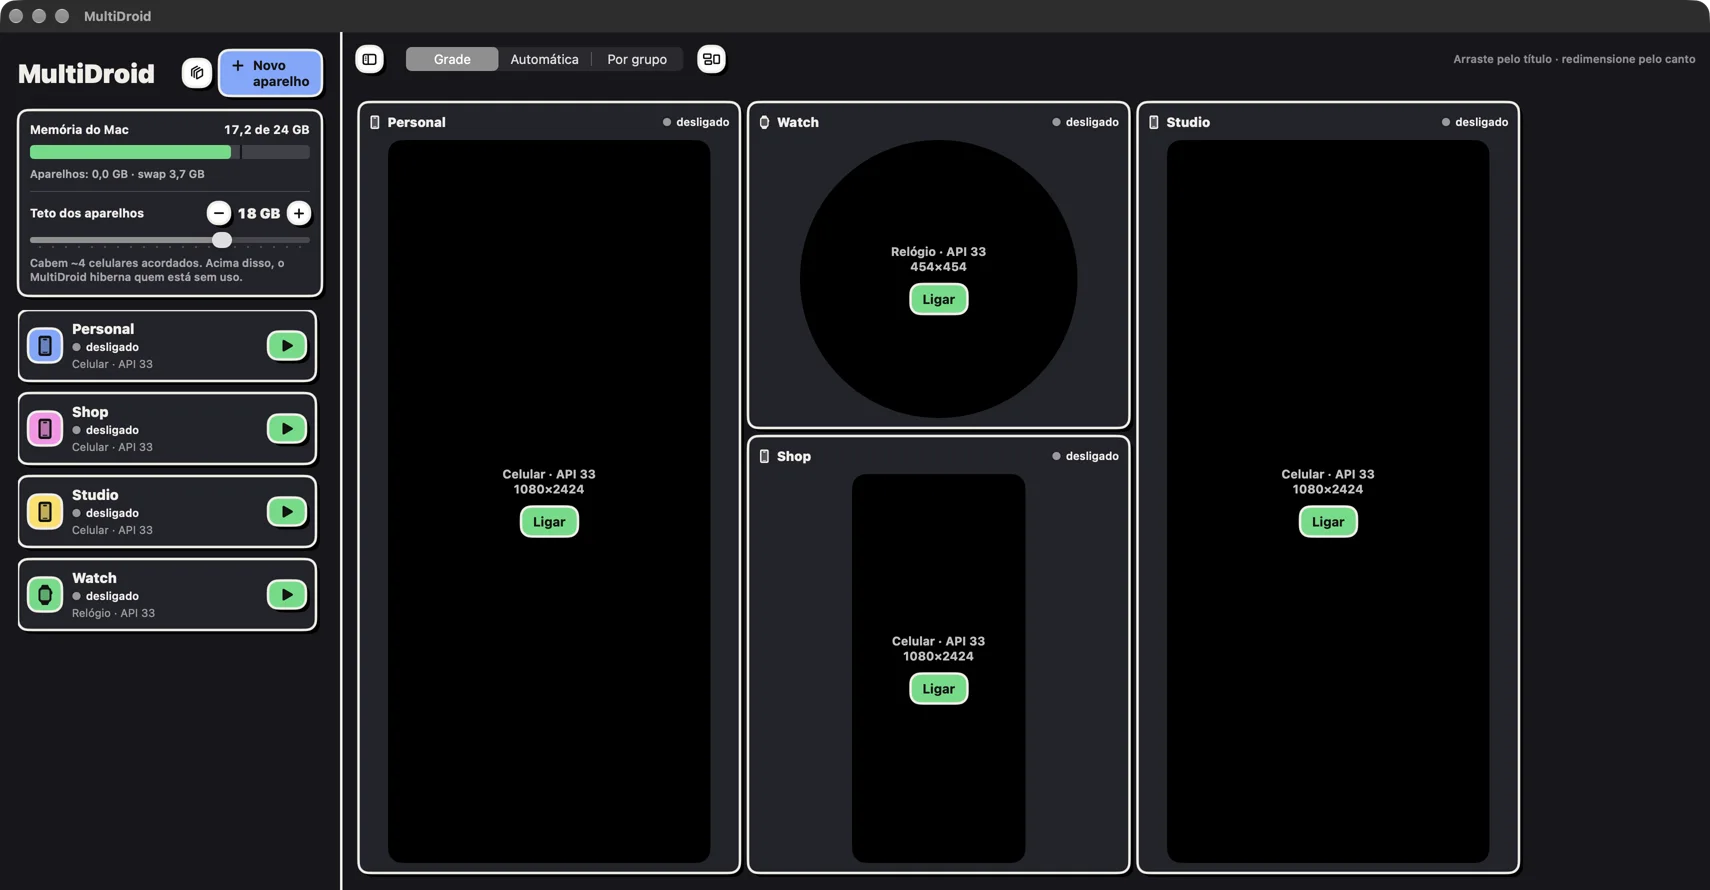
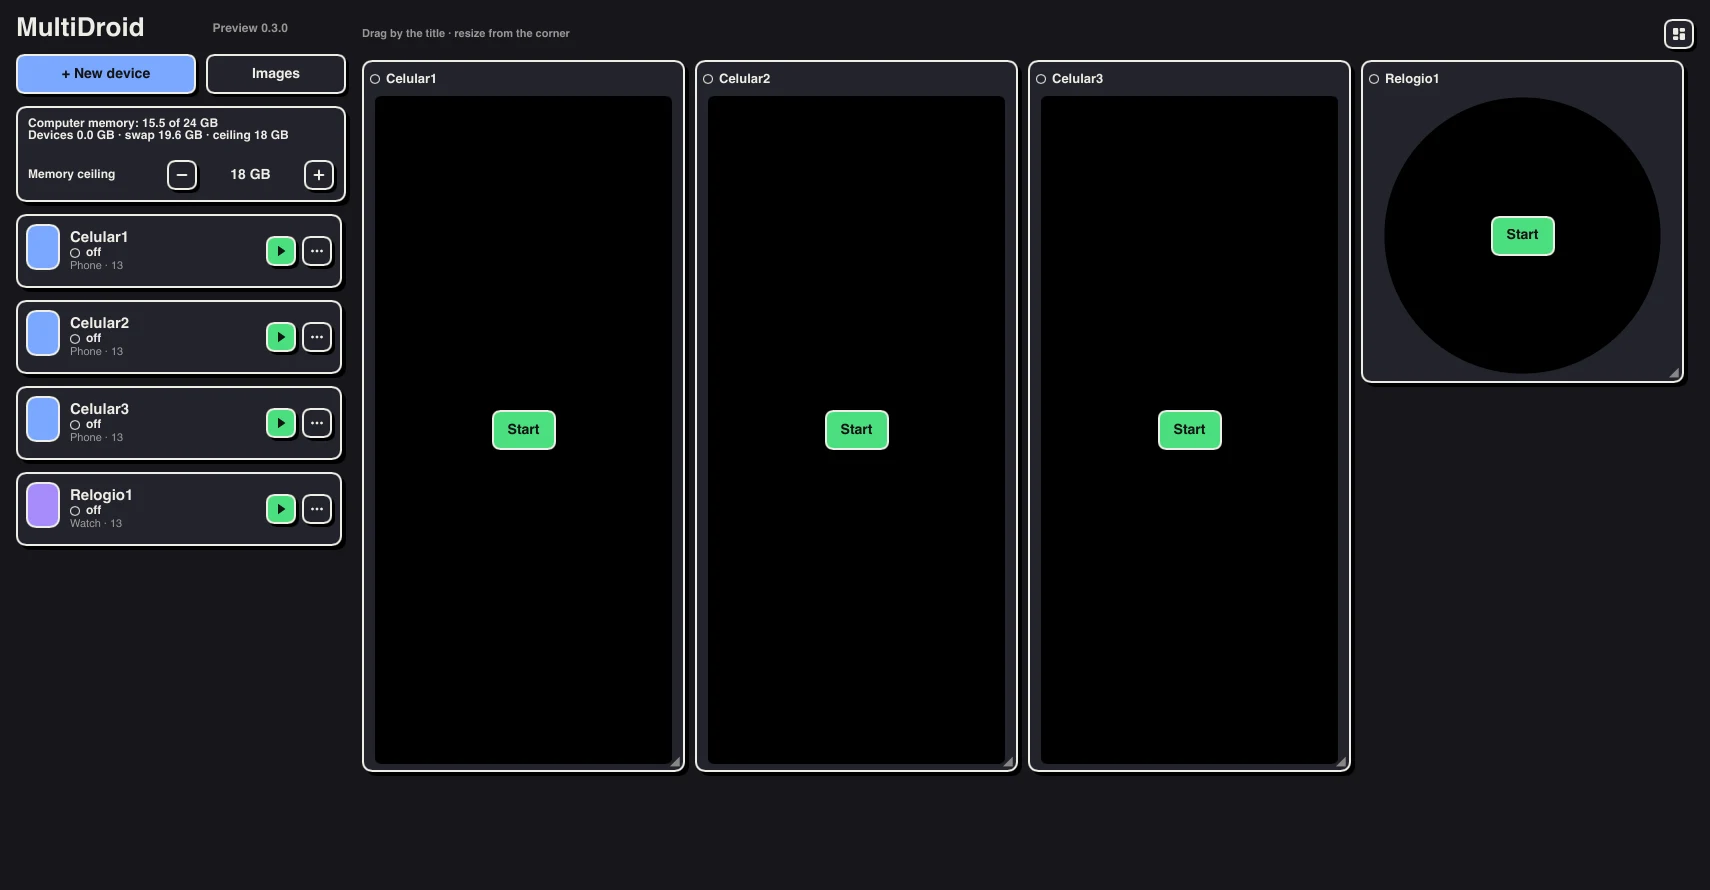
Capturas novas da Preview 0.3 no README e no site
- mesa ligada, painel e mesa desligada refeitos com a versão Rust, em
  inglês: três celulares (Android 13 com Google Play) e um relógio
  (Wear OS 13), telas e memória e CPU medidas dos aparelhos ligados
- examples/capturas.rs: desenha as três capturas a partir do estado real
  (só lê os aparelhos), com o renderizador por software do app
- site: desk-3 e panel-3 no lugar de desk-2 e panel-2, com a origem nos
  .json; legenda e nota dizem que as imagens são da 0.3 e que a 0.2,
  a do download, é em português
- examples tocar, tecla e digitar (núcleo) e APENAS/SO_LIGAR no mesa_real,
  usados para preparar as telas

diff --git a/site/index.html b/site/index.html
@@ -67,10 +67,10 @@
       <li><span class="dl dl--soon" aria-disabled="true"><b>Windows</b><span>In development</span></span></li>
       <li><span class="dl dl--soon" aria-disabled="true"><b>Linux</b><span>In development</span></span></li>
     </ul>
-    <p class="note">Free and open source (GPL-3.0), signed and notarized by Apple. The interface is in Brazilian Portuguese for now. <a href="https://github.com/iramarfalcao/MultiDroid">Source on GitHub</a> · <a href="mailto:dev@falcaosl.com?subject=MultiDroid%3A%20tell%20me%20when%20Windows%20or%20Linux%20is%20out">Tell me when Windows or Linux is out</a></p>
+    <p class="note">Free and open source (GPL-3.0), signed and notarized by Apple. Version 0.2 is in Brazilian Portuguese; the 0.3 preview in the pictures is in English. <a href="https://github.com/iramarfalcao/MultiDroid">Source on GitHub</a> · <a href="mailto:dev@falcaosl.com?subject=MultiDroid%3A%20tell%20me%20when%20Windows%20or%20Linux%20is%20out">Tell me when Windows or Linux is out</a></p>
     <figure class="shot shot--hero">
-      <img src="assets/desk-2.webp" width="1710" height="890" alt="MultiDroid on a Mac with three Android phones and a watch switched on at the same time, next to the panel with each device's memory and CPU">
-      <figcaption>Three phones and a watch on at the same time, on a Mac with 24 GB.</figcaption>
+      <img src="assets/desk-3.webp" width="1710" height="890" alt="MultiDroid on a Mac with three Android phones and a watch switched on at the same time, next to the panel with each device's memory and CPU">
+      <figcaption>Three phones and a watch on at the same time, on a Mac with 24 GB. Shown: the 0.3 preview.</figcaption>
     </figure>
   </section>
 
@@ -94,7 +94,7 @@
         <p class="body">Power on, pause, hibernate and switch off one device or a whole group at once.</p>
       </div>
       <figure class="shot shot--panel">
-        <img src="assets/panel-2.webp" width="400" height="655" alt="The MultiDroid panel with the Mac's memory, the memory ceiling and four devices with their memory and CPU" loading="lazy" decoding="async">
+        <img src="assets/panel-3.webp" width="362" height="655" alt="The MultiDroid panel with the Mac's memory, the memory ceiling, and three phones and a watch with their memory and CPU" loading="lazy" decoding="async">
       </figure>
     </div>
   </section>

diff --git a/rust/app/examples/capturas.rs b/rust/app/examples/capturas.rs
@@ -1,0 +1,228 @@
+//! Capturas do README e do site a partir do estado real: os aparelhos da pasta
+//! do MultiDroid, a tela de cada um que está ligado (gRPC), a memória e a CPU de
+//! cada processo e o painel de memória com o texto do app. Desenha com o
+//! renderizador por software, o mesmo do app no Mac, fora da tela.
+//!   cargo run --release -p multidroid --example capturas -- <pasta>
+//! Grava <pasta>/mesa-ligada.png, mesa-desligada.png e painel.png. Não mexe nos
+//! aparelhos: só lê. MULTIDROID_LANG=pt desenha em português; APENAS=a,b limita a mesa.
+
+slint::include_modules!();
+
+use multidroid_core::emulator::{self, Link, Processes};
+use multidroid_core::state::{State, grid};
+use multidroid_core::{catalog, devices, idioma, platform, tokens};
+use slint::platform::software_renderer::{MinimalSoftwareWindow, RepaintBufferType};
+use slint::platform::{Platform, WindowAdapter};
+use slint::{Image, ModelRc, Rgb8Pixel, Rgba8Pixel, SharedPixelBuffer, VecModel};
+use std::path::Path;
+use std::rc::Rc;
+use std::time::Duration;
+
+const LARGURA: u32 = 1710;
+const ALTURA: u32 = 890;
+
+struct Fora(Rc<MinimalSoftwareWindow>);
+
+impl Platform for Fora {
+    fn create_window_adapter(&self) -> Result<Rc<dyn WindowAdapter>, slint::PlatformError> {
+        Ok(self.0.clone())
+    }
+}
+
+fn gb(bytes: u64) -> String {
+    format!("{} GB", idioma::num(bytes as f64 / (1u64 << 30) as f64, 1))
+}
+
+fn png_para_imagem(png: &[u8]) -> Option<(Image, f32)> {
+    let mut r = png::Decoder::new(std::io::Cursor::new(png)).read_info().ok()?;
+    let mut buf = vec![0; r.output_buffer_size()];
+    let info = r.next_frame(&mut buf).ok()?;
+    let rgba: Vec<u8> = match info.color_type {
+        png::ColorType::Rgba => buf[..info.buffer_size()].to_vec(),
+        png::ColorType::Rgb => buf[..info.buffer_size()].chunks(3).flat_map(|p| [p[0], p[1], p[2], 255]).collect(),
+        _ => return None,
+    };
+    let px = SharedPixelBuffer::<Rgba8Pixel>::clone_from_slice(&rgba, info.width, info.height);
+    Some((Image::from_rgba8(px), info.width as f32 / info.height.max(1) as f32))
+}
+
+fn tema(ui: &AppWindow) {
+    let cor = |hex: &str| {
+        let (r, g, b) = tokens::rgb(hex);
+        slint::Color::from_rgb_u8(r, g, b)
+    };
+    let t = tokens::load();
+    let tm = ui.global::<Tema>();
+    let (e, a) = (&t.cor.escuro, &t.cor.acento);
+    tm.set_fundo(cor(&e.fundo));
+    tm.set_superficie(cor(&e.superficie));
+    tm.set_borda(cor(&e.borda));
+    tm.set_sombra(cor(&e.sombra));
+    tm.set_tinta(cor(&e.tinta));
+    tm.set_tinta_sobre_acento(cor(&e.tinta_sobre_acento));
+    tm.set_azul(cor(&a.azul));
+    tm.set_verde(cor(&a.verde));
+    tm.set_ciano(cor(&a.ciano));
+    tm.set_amarelo(cor(&a.amarelo));
+    tm.set_vermelho(cor(&a.vermelho));
+    tm.set_rosa(cor(&a.rosa));
+    tm.set_roxo(cor(&a.roxo));
+    tm.set_largura_borda(t.forma.largura_borda);
+    tm.set_raio(t.forma.raio);
+    tm.set_sombra_x(t.forma.sombra.x);
+    tm.set_sombra_y(t.forma.sombra.y);
+}
+
+fn desenhar(janela: &MinimalSoftwareWindow, saida: &Path, recorte: Option<(u32, u32)>) {
+    let mut buffer = vec![Rgb8Pixel::default(); (LARGURA * ALTURA) as usize];
+    for _ in 0..2 {
+        slint::platform::update_timers_and_animations();
+        janela.request_redraw();
+        janela.draw_if_needed(|r| {
+            r.render(&mut buffer, LARGURA as usize);
+        });
+    }
+    let (w, h) = recorte.unwrap_or((LARGURA, ALTURA));
+    let mut rgb = Vec::with_capacity((w * h * 3) as usize);
+    for y in 0..h {
+        for x in 0..w {
+            let p = buffer[(y * LARGURA + x) as usize];
+            rgb.extend_from_slice(&[p.r, p.g, p.b]);
+        }
+    }
+    let mut enc = png::Encoder::new(std::fs::File::create(saida).unwrap(), w, h);
+    enc.set_color(png::ColorType::Rgb);
+    enc.write_header().unwrap().write_image_data(&rgb).unwrap();
+    eprintln!("gravado {} ({w}×{h})", saida.display());
+}
+
+fn main() {
+    let pasta = std::path::PathBuf::from(std::env::args().nth(1).expect("pasta de saída"));
+    std::fs::create_dir_all(&pasta).unwrap();
+    let pt = std::env::var("MULTIDROID_LANG").is_ok_and(|l| idioma::eh_portugues(&l));
+    idioma::usar_portugues(pt);
+
+    // Estado real.
+    let infos = devices::load(&devices::avd_home());
+    let st = State::load(&platform::data_dir().join("state.json"), platform::physical_gb());
+    // APENAS=Celular1,Relogio1 mostra só esses na mesa.
+    let apenas: Option<Vec<String>> = std::env::var("APENAS").ok().map(|v| v.split(',').map(str::to_string).collect());
+    let ordem: Vec<_> = st
+        .ordered(&infos)
+        .into_iter()
+        .filter(|d| apenas.as_ref().is_none_or(|a| a.iter().any(|n| *n == d.name)))
+        .collect();
+    // A CPU de um processo só vale a partir da terceira leitura (sysinfo).
+    let mut procs = Processes::new();
+    for _ in 0..2 {
+        procs.emulators();
+        std::thread::sleep(Duration::from_secs(1));
+    }
+    let rodando = procs.emulators();
+
+    // Telas pelo gRPC, só lendo.
+    let rt = tokio::runtime::Runtime::new().unwrap();
+    let telas: Vec<Option<(Image, f32)>> = ordem
+        .iter()
+        .map(|d| {
+            let r = rodando.iter().find(|r| r.avd == d.name)?;
+            let token = emulator::grpc_token(r.pid)?;
+            let png = rt.block_on(async {
+                let link = Link::connect(r.grpc?, &token).await.ok()?;
+                link.screenshot_png().await
+            })?;
+            png_para_imagem(&png)
+        })
+        .collect();
+
+    // Grade como depois do Organizar, na altura visível desta janela.
+    let celula = (LARGURA as f32 - 16.0 * 3.0 - 330.0) / 24.0;
+    let linhas = ((ALTURA as f32 - 32.0 - 44.0) / celula).floor() as i32;
+    let padroes: Vec<(i32, i32)> = ordem.iter().map(|d| d.kind.grid_size()).collect();
+    let lugares = grid::encaixar(&padroes, linhas);
+
+    let janela = MinimalSoftwareWindow::new(RepaintBufferType::NewBuffer);
+    janela.set_size(slint::PhysicalSize::new(LARGURA, ALTURA));
+    slint::platform::set_platform(Box::new(Fora(janela.clone()))).unwrap();
+    let ui = AppWindow::new().unwrap();
+    let _ = slint::select_bundled_translation(if pt { "pt_BR" } else { "en" });
+    tema(&ui);
+    ui.set_versao(env!("CARGO_PKG_VERSION").into());
+
+    let montar = |ligados: bool| -> Vec<Aparelho> {
+        ordem
+            .iter()
+            .zip(&lugares)
+            .zip(&telas)
+            .map(|((d, s), tela)| {
+                let r = rodando.iter().find(|r| r.avd == d.name).filter(|_| ligados);
+                let tela = tela.as_ref().filter(|_| ligados);
+                Aparelho {
+                    nome: d.name.as_str().into(),
+                    tipo: d.kind.display().into(),
+                    android: catalog::android_version(&d.api).into(),
+                    estado: if r.is_some() { Estado::Ligado } else { Estado::Desligado },
+                    mensagem: "".into(),
+                    metricas: r.map(|r| format!("{} · {:.0}%", gb(r.memory), r.cpu)).unwrap_or_default().into(),
+                    grupo: st.groups.get(&d.name).cloned().unwrap_or_default().into(),
+                    x: s.x,
+                    y: s.y,
+                    w: s.w,
+                    h: s.h,
+                    proporcao: tela.map_or_else(
+                        || {
+                            let (lw, lh, _) = d.kind.lcd();
+                            lw as f32 / lh as f32
+                        },
+                        |t| t.1,
+                    ),
+                    tela: tela.map(|t| t.0.clone()).unwrap_or_default(),
+                    tem_tela: tela.is_some(),
+                    relogio: d.kind == devices::Kind::Relogio,
+                    selecionado: false,
+                }
+            })
+            .collect()
+    };
+
+    let (usada, swap) = platform::memory_use_gb();
+    let soma: u64 = rodando.iter().filter(|r| ordem.iter().any(|d| d.name == r.avd)).map(|r| r.memory).sum();
+    let memoria = idioma::tf(
+        "Computer memory: {usada} of {total} GB\nDevices {aparelhos} · swap {swap} GB · ceiling {teto} GB",
+        &[
+            ("usada", &idioma::num(usada, 1)),
+            ("total", &idioma::num(platform::physical_gb(), 0)),
+            ("aparelhos", &gb(soma)),
+            ("swap", &idioma::num(swap, 1)),
+            ("teto", &idioma::num(st.ceiling_gb, 0)),
+        ],
+    );
+    ui.set_teto(st.ceiling_gb as f32);
+    ui.set_linhas(lugares.iter().map(|s| s.y + s.h).max().unwrap_or(0));
+    ui.show().unwrap();
+
+    ui.set_memoria(memoria.as_str().into());
+    ui.set_aparelhos(ModelRc::new(VecModel::from(montar(true))));
+    desenhar(&janela, &pasta.join("mesa-ligada.png"), None);
+    // O painel sozinho: a coluna da esquerda, com a margem.
+    desenhar(&janela, &pasta.join("painel.png"), Some((362, 655)));
+
+    let memoria_parada = idioma::tf(
+        "Computer memory: {usada} of {total} GB\nDevices {aparelhos} · swap {swap} GB · ceiling {teto} GB",
+        &[
+            ("usada", &idioma::num(usada, 1)),
+            ("total", &idioma::num(platform::physical_gb(), 0)),
+            ("aparelhos", &gb(0)),
+            ("swap", &idioma::num(swap, 1)),
+            ("teto", &idioma::num(st.ceiling_gb, 0)),
+        ],
+    );
+    ui.set_memoria(memoria_parada.as_str().into());
+    ui.set_aparelhos(ModelRc::new(VecModel::from(montar(false))));
+    desenhar(&janela, &pasta.join("mesa-desligada.png"), None);
+    eprintln!(
+        "{} aparelhos, {} ligados, linhas {linhas}",
+        ordem.len(),
+        telas.iter().filter(|t| t.is_some()).count()
+    );
+}

diff --git a/rust/core/examples/mesa_real.rs b/rust/core/examples/mesa_real.rs
@@ -6,7 +6,8 @@
 //! na mesa principal do state.json. Com DEIXAR=1 os aparelhos ficam ligados, para
 //! um app (0.2 ou Rust) adotá-los e a memória dos dois ser comparada.
 //! CAPTURAS=<pasta> grava a tela de cada etapa; SO_DESLIGAR=1 só desliga os cinco;
-//! AGITAR=<s> mexe as cinco telas por s segundos (para medir o app desenhando).
+//! AGITAR=<s> mexe as cinco telas por s segundos (para medir o app desenhando);
+//! SO_LIGAR=1 só liga e sai; APENAS=Celular1,Relogio1 limita a esses.
 
 use multidroid_core::catalog::{self, EMULATOR, Host, REPO};
 use multidroid_core::devices::{self, Kind};
@@ -132,7 +133,12 @@ async fn main() {
     let mut ligados = vec![];
     let mut adotados = vec![];
     let rodando = Processes::new().emulators();
+    // APENAS=Celular1,Relogio1 limita a quais dos cinco o exemplo se aplica.
+    let apenas: Option<Vec<String>> = std::env::var("APENAS").ok().map(|v| v.split(',').map(str::to_string).collect());
     for (nome, kind) in APARELHOS {
+        if apenas.as_ref().is_some_and(|a| !a.iter().any(|n| n == nome)) {
+            continue;
+        }
         if let Some(r) = rodando.iter().find(|r| r.avd == nome) {
             eprintln!("{nome}: já ligado (pid {}), adotado", r.pid);
             adotados.push((nome, kind, r.pid, r.grpc.expect("sem porta gRPC"), r.console));
@@ -188,6 +194,14 @@ async fn main() {
         links.push((*nome, *kind, link));
     }
     eprintln!("os cinco ligados em {:?}", inicio.elapsed());
+
+    // SO_LIGAR=1: liga, espera o boot e sai deixando ligados.
+    if std::env::var_os("SO_LIGAR").is_some() {
+        for (_, _, l) in ligados {
+            std::mem::forget(l);
+        }
+        return;
+    }
 
     // AGITAR=<segundos>: alterna a tela de recentes nos cinco a cada segundo, para
     // medir o app desenhando cinco telas em movimento, e sai sem interagir mais.

diff --git a/rust/core/examples/tocar.rs b/rust/core/examples/tocar.rs
@@ -1,0 +1,18 @@
+//! Um toque num aparelho ligado, em coordenadas da tela do Android.
+//!   cargo run --release -p multidroid-core --example tocar -- <aparelho> <x> <y>
+
+use multidroid_core::emulator::{self, Link, Processes};
+use std::time::Duration;
+
+#[tokio::main(flavor = "current_thread")]
+async fn main() {
+    let a: Vec<String> = std::env::args().collect();
+    let (nome, x, y): (&str, i32, i32) = (&a[1], a[2].parse().unwrap(), a[3].parse().unwrap());
+    let r = Processes::new().emulators().into_iter().find(|r| r.avd == nome).expect("não está ligado");
+    let token = emulator::grpc_token(r.pid).expect("sem token");
+    let link = Link::connect(r.grpc.expect("sem gRPC"), &token).await.unwrap();
+    link.touch(x, y, true).await;
+    tokio::time::sleep(Duration::from_millis(80)).await;
+    link.touch(x, y, false).await;
+    eprintln!("tocou {nome} em ({x}, {y})");
+}

diff --git a/rust/core/examples/tecla.rs b/rust/core/examples/tecla.rs
@@ -1,0 +1,14 @@
+//! Uma tecla do Android num aparelho ligado (GoHome, GoBack, AppSwitch…).
+//!   cargo run --release -p multidroid-core --example tecla -- <aparelho> <tecla>
+
+use multidroid_core::emulator::{self, Link, Processes};
+
+#[tokio::main(flavor = "current_thread")]
+async fn main() {
+    let a: Vec<String> = std::env::args().collect();
+    let r = Processes::new().emulators().into_iter().find(|r| r.avd == a[1]).expect("não está ligado");
+    let token = emulator::grpc_token(r.pid).expect("sem token");
+    let link = Link::connect(r.grpc.expect("sem gRPC"), &token).await.unwrap();
+    link.key(&a[2]).await;
+    eprintln!("{} em {}", a[2], a[1]);
+}

diff --git a/rust/core/examples/digitar.rs b/rust/core/examples/digitar.rs
@@ -1,0 +1,14 @@
+//! Digita um texto num aparelho ligado (vai para o campo em foco).
+//!   cargo run --release -p multidroid-core --example digitar -- <aparelho> <texto>
+
+use multidroid_core::emulator::{self, Link, Processes};
+
+#[tokio::main(flavor = "current_thread")]
+async fn main() {
+    let a: Vec<String> = std::env::args().collect();
+    let r = Processes::new().emulators().into_iter().find(|r| r.avd == a[1]).expect("não está ligado");
+    let token = emulator::grpc_token(r.pid).expect("sem token");
+    let link = Link::connect(r.grpc.expect("sem gRPC"), &token).await.unwrap();
+    link.type_text(&a[2]).await;
+    eprintln!("digitou em {}", a[1]);
+}

diff --git a/README.md b/README.md
@@ -20,20 +20,20 @@ O MultiDroid não automatiza contas nem burla a verificação de integridade dos
 
 ![A mesa do MultiDroid com três celulares e um relógio ligados ao mesmo tempo, ao lado do painel com a memória e a CPU de cada aparelho](docs/screenshots/mesa-ligada.webp)
 
-*A mesa com três celulares e um relógio ligados ao mesmo tempo, num Mac de 24 GB. Cada quadro tem os botões do aparelho ao lado da tela: voltar, início, recentes, volume, girar, digitar, captura, pausar, hibernar e desligar.*
+*A mesa com três celulares e um relógio ligados ao mesmo tempo, num Mac de 24 GB. Cada quadro tem os botões do aparelho ao lado da tela: voltar, início, recentes, volume, girar, captura, pausar, hibernar e desligar; o ícone no canto de cima organiza a mesa para caber na janela.*
 
 <table>
 <tr>
-<td width="32%"><img src="docs/screenshots/painel.webp" alt="O painel com a memória do Mac, o teto de memória dos aparelhos e quatro aparelhos ligados com memória e CPU"></td>
-<td><img src="docs/screenshots/mesa-desligada.webp" alt="A mesa com os aparelhos desligados, cada um com o botão Ligar"></td>
+<td width="32%"><img src="docs/screenshots/painel.webp" alt="O painel com a memória do Mac, o teto de memória dos aparelhos e três celulares e um relógio ligados, com memória e CPU"></td>
+<td><img src="docs/screenshots/mesa-desligada.webp" alt="A mesa com os aparelhos desligados, cada um com o botão Start"></td>
 </tr>
 <tr>
 <td><em>O painel: memória do Mac, o teto dos aparelhos (acima dele o MultiDroid hiberna quem está há mais tempo sem uso) e cada aparelho com estado, memória e CPU.</em></td>
-<td><em>A mesma mesa com os aparelhos desligados: cada quadro mostra o tipo, a versão do Android e o botão Ligar.</em></td>
+<td><em>A mesma mesa com os aparelhos desligados: cada quadro mostra o botão Start (Ligar), e o painel, o tipo e a versão do Android.</em></td>
 </tr>
 </table>
 
-Capturas do app real (0.2), com imagens Android sem apps do Google. A 0.2 é em português; a versão Rust tem o inglês como língua principal (desde 2026-10-21).
+Capturas da MultiDroid Preview 0.3 (versão Rust, em inglês), de 2026-10-21: a interface real desenhada fora da tela pelo mesmo renderizador do app (`rust/app/examples/capturas.rs`), com as telas e a memória e a CPU medidas de quatro aparelhos ligados (Android 13 com Google Play e Wear OS 13). A 0.2, a versão publicada, é em português e muda pouco no visual.
 
 ## Funcionalidades
 
